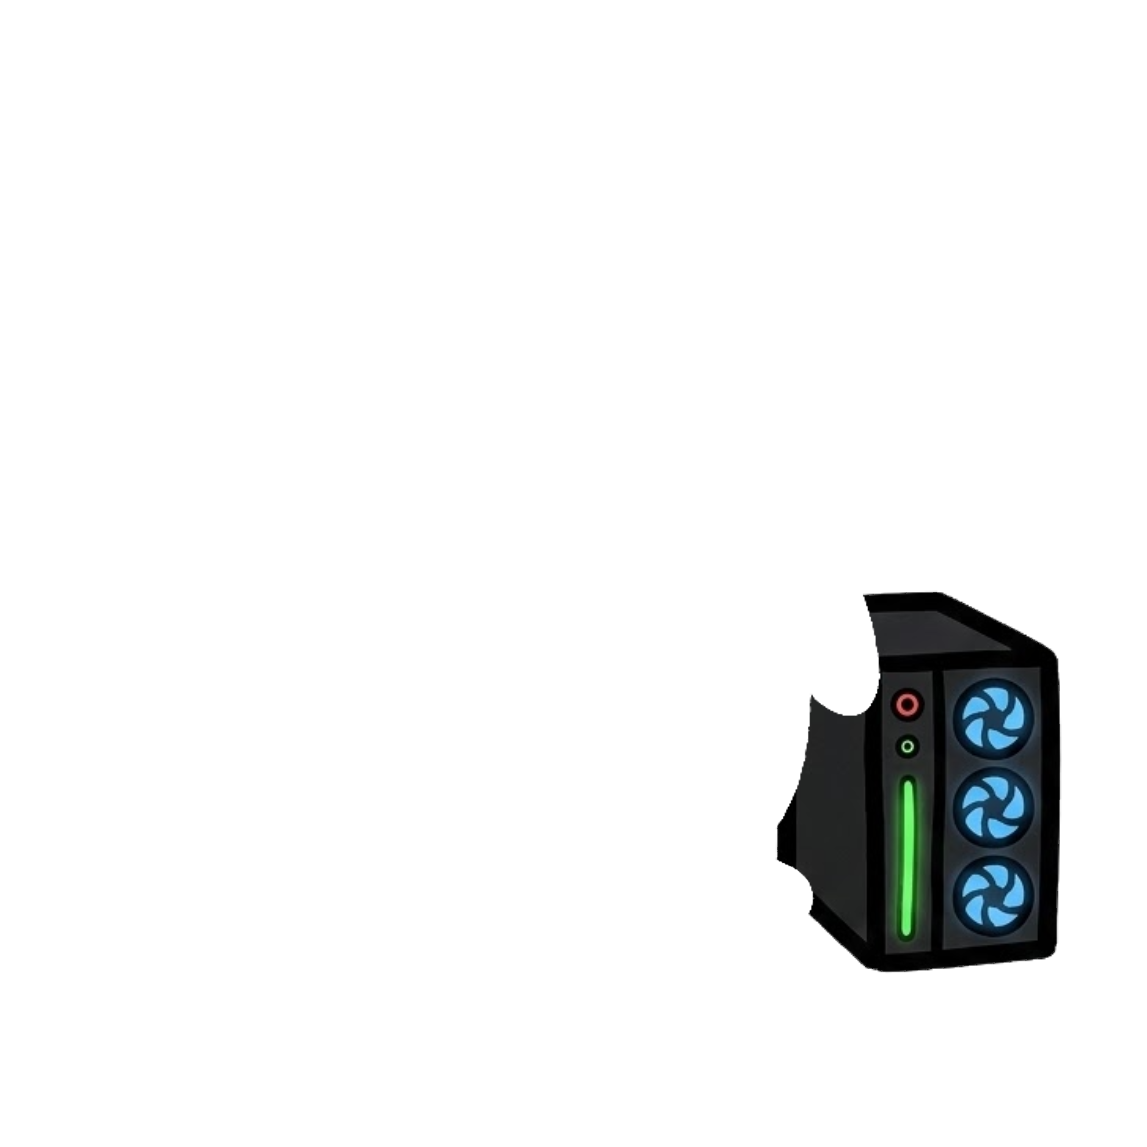
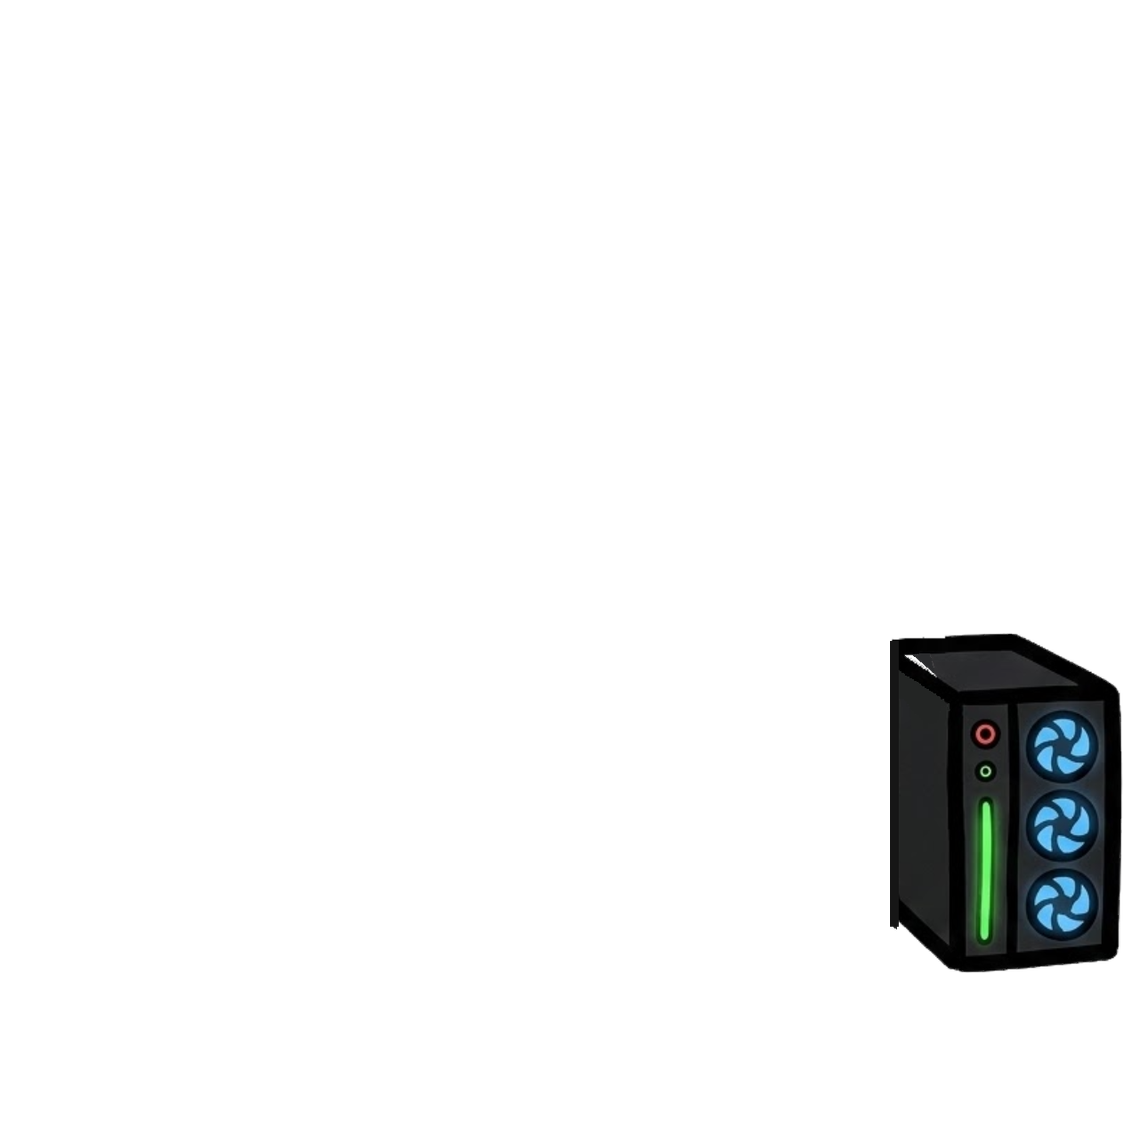
Put 8 accessories back in front of PING, moved outward past the flipper
plant-pot, washing-machine, fire-hydrant, boombox, pC-gamer, pS5-(right),
xbox-gamer and rocket were masked behind the base in 2166fbd; the owner wants
them in front and further to the side. Each is restored, pushed to 24px from
the canvas edge and shrunk only as much as needed to keep a 10px gap from the
flipper and foot. The sides the source art lost under the flipper (boombox
right end, pC/pS5/xbox left sides) are redrawn with a straight outline.
Birdhouse and mailbox get the same edge placement. Clash file regenerated
(1781 -> 1755 pairs), CARD_RENDER_VERSION 8.

Changed region(s): [[0.6713, 0.5187, 0.9765, 0.8544]]

diff --git a/functions/_lib.ts b/functions/_lib.ts
@@ -654,7 +654,7 @@ export const cleanPingMessage = (raw: string): string | null => {
  * a redesign gets a fresh render instead of the stored old one. Links made
  * before a bump keep resolving to the card they were made with.
  */
-export const CARD_RENDER_VERSION = 7;
+export const CARD_RENDER_VERSION = 8;
 
 /**
  * The string hashed into a share id: the render version, the traits, and the
